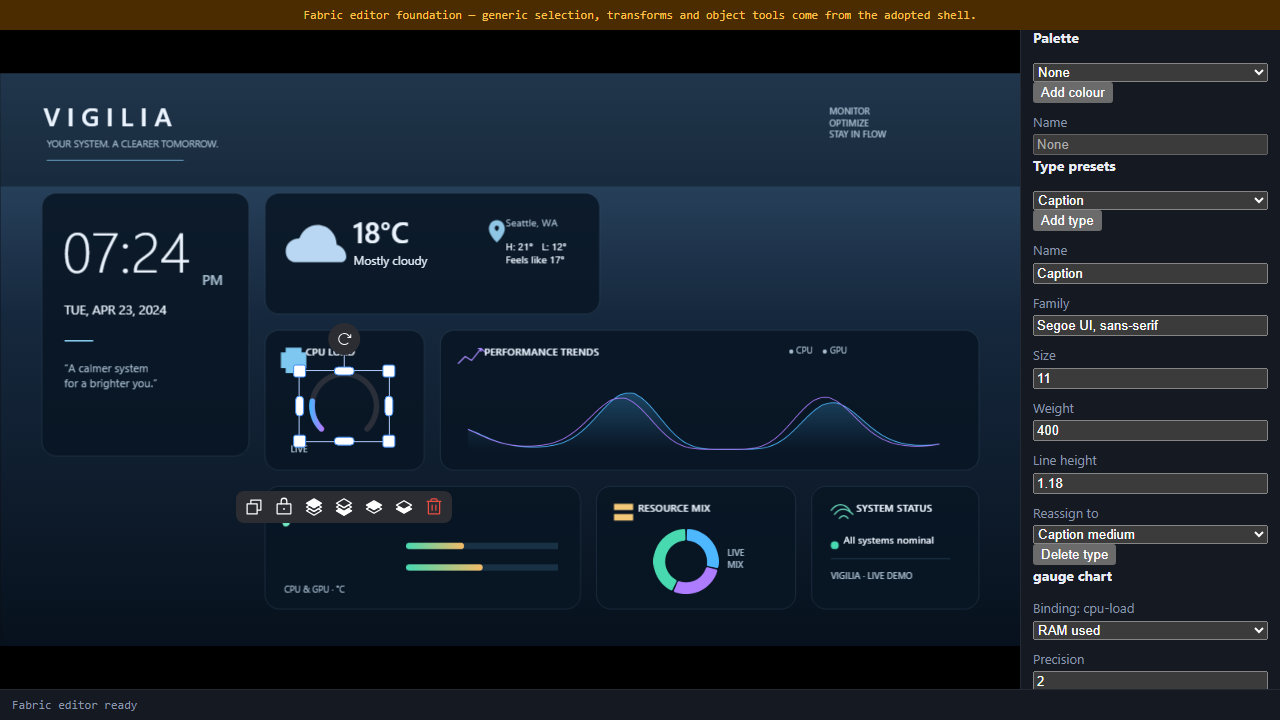
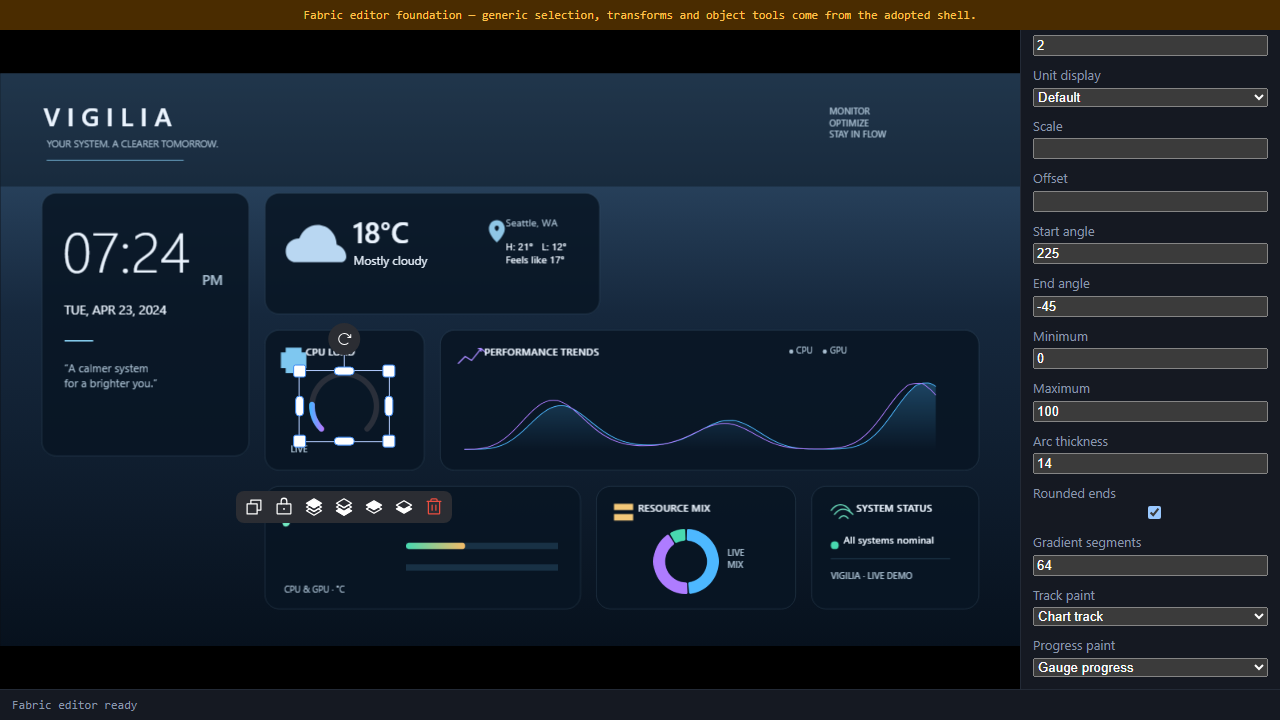
feat(editor): add chart paint controls

diff --git a/src/web/packages/editor/src/chart-manager/panel.ts b/src/web/packages/editor/src/chart-manager/panel.ts
@@ -1,8 +1,8 @@
-import { SEMANTIC_KEYS, settingsFieldsFor, type Binding, type ChartContent } from '@vigilia/renderer-core';
+import { SEMANTIC_KEYS, chartPaintFieldsFor, settingsFieldsFor, type Binding, type ChartContent, type FabricPalette } from '@vigilia/renderer-core';
 
 export interface ForkChartPanel {
   readonly root: HTMLElement;
-  render(chart: { readonly id: string; readonly content: ChartContent; readonly bindings: readonly Binding[] } | undefined): void;
+  render(chart: { readonly id: string; readonly content: ChartContent; readonly bindings: readonly Binding[] } | undefined, palette?: FabricPalette): void;
 }
 
 export function createForkChartPanel(
@@ -11,11 +11,11 @@ export function createForkChartPanel(
   onBindingChange: (id: string, binding: Binding) => void,
 ): ForkChartPanel {
   const root = document.createElement('section');
-  host.append(root);
+  host.prepend(root);
 
   return {
     root,
-    render(chart) {
+    render(chart, palette) {
       root.replaceChildren();
       if (chart === undefined) {
         root.textContent = 'Select a chart to edit its settings.';
@@ -79,8 +79,50 @@ export function createForkChartPanel(
         });
         root.append(label, input);
       }
+      for (const field of chartPaintFieldsFor(chart.content.family)) {
+        const value = (chart.content.settings as unknown as Record<string, unknown>)[field.property];
+        if (field.multiple && Array.isArray(value)) {
+          value.forEach((paint, index) => root.append(...paintPicker(
+            `${field.label} ${index + 1}`, `${field.property}.${index}`, paint, palette,
+            (ref) => onChange(chart.id, { ...chart.content.settings, [field.property]: value.map((entry, item) => item === index ? { ref } : entry) } as ChartContent['settings']),
+          )));
+        } else if (!Array.isArray(value) && value !== undefined) {
+          root.append(...paintPicker(
+            field.label, field.property, value, palette,
+            (ref) => onChange(chart.id, { ...chart.content.settings, [field.property]: { ref } } as ChartContent['settings']),
+          ));
+        }
+      }
     },
   };
+}
+
+function paintPicker(
+  labelText: string,
+  key: string,
+  value: unknown,
+  palette: FabricPalette | undefined,
+  onChange: (ref: string) => void,
+): readonly [HTMLLabelElement, HTMLSelectElement] {
+  const label = document.createElement('label');
+  label.textContent = labelText;
+  const select = document.createElement('select');
+  select.dataset['vigiliaChartPaint'] = key;
+  const current = isPaletteReference(value) ? value.ref : '';
+  for (const [id, entry] of Object.entries(palette ?? {})) {
+    const option = document.createElement('option');
+    option.value = `palette.${id}`;
+    option.textContent = entry.name;
+    select.append(option);
+  }
+  select.value = current;
+  select.disabled = current === '' || select.options.length === 0;
+  select.addEventListener('change', () => onChange(select.value));
+  return [label, select];
+}
+
+function isPaletteReference(value: unknown): value is { readonly ref: string } {
+  return typeof value === 'object' && value !== null && typeof (value as Record<string, unknown>)['ref'] === 'string';
 }
 
 function bindingNumber(

diff --git a/src/web/tests/e2e/editor-fork.spec.ts b/src/web/tests/e2e/editor-fork.spec.ts
@@ -47,6 +47,9 @@ test.describe('Fabric editor route', () => {
     await precision.fill('2');
     await precision.press('Tab');
     await expect(precision).toHaveValue('2');
+    const progressPaint = page.locator('[data-vigilia-chart-paint="progress"]');
+    await progressPaint.scrollIntoViewIfNeeded();
+    await expect(progressPaint).toBeVisible();
 
     await captureVisualReview(page, testInfo, 'editor-fork-chart-binding');
   });
@@ -156,6 +159,22 @@ test.describe('Fabric editor route', () => {
     expect(envelope.globals.palette.background).toBeUndefined();
   });
 
+  test('reassigns chart paint before deleting its palette token', async ({ page }, testInfo) => {
+    test.skip(testInfo.project.name !== 'desktop-chromium', 'the editor is a desktop surface');
+
+    await page.goto(EDITOR);
+    await page.locator('[data-vigilia-palette-token]').selectOption('chartTrack');
+    await page.locator('[data-vigilia-palette-replacement]').selectOption('bars');
+    await page.locator('[data-vigilia-palette-delete]').click();
+
+    const envelope = await saveEnvelope(page) as {
+      globals: { palette: Record<string, unknown> };
+      scene: { objects: Array<{ id?: string; settings?: { track?: { ref?: string } } }> };
+    };
+    expect(envelope.globals.palette.chartTrack).toBeUndefined();
+    expect(envelope.scene.objects.find((object) => object.id === 'load-gauge')?.settings?.track).toEqual({ ref: 'palette.bars' });
+  });
+
   test('edits a global type preset through the fork property surface', async ({ page }, testInfo) => {
     test.skip(testInfo.project.name !== 'desktop-chromium', 'the editor is a desktop surface');
 
@@ -242,6 +261,19 @@ test.describe('Fabric editor route', () => {
 
     const envelope = await saveEnvelope(page) as { bindings: Record<string, Array<{ id: string; semanticKey: string }>> };
     expect(envelope.bindings['load-gauge']).toContainEqual({ id: 'cpu-load', semanticKey: 'ram.used', precision: 2 });
+  });
+
+  test('persists selected chart paint as a palette reference', async ({ page }, testInfo) => {
+    test.skip(testInfo.project.name !== 'desktop-chromium', 'the editor is a desktop surface');
+
+    await page.goto(EDITOR);
+    await selectStarterChart(page);
+    await page.locator('[data-vigilia-chart-paint="progress"]').selectOption('palette.chartTrack');
+
+    const envelope = await saveEnvelope(page) as {
+      scene: { objects: Array<{ id?: string; settings?: { progress?: { ref?: string } } }> };
+    };
+    expect(envelope.scene.objects.find((object) => object.id === 'load-gauge')?.settings?.progress).toEqual({ ref: 'palette.chartTrack' });
   });
 
   test('opens a v2 theme and keeps the active editor when its Fabric runtime is incompatible', async ({ page }, testInfo) => {

diff --git a/src/web/packages/editor/src/chart-manager/index.dom.test.ts b/src/web/packages/editor/src/chart-manager/index.dom.test.ts
@@ -10,7 +10,7 @@ describe('ChartManager', () => {
   it('updates the selected Fabric chart from envelope bindings', () => {
     const listeners = new Map<string, () => void>();
     const chart = Object.assign(Object.create(VigiliaChart.prototype), {
-      id: 'cpu-gauge', family: 'gauge', settings: defaultGaugeSettings,
+      id: 'cpu-gauge', family: 'gauge', settings: { ...defaultGaugeSettings, track: { ref: 'palette.track' }, progress: { ref: 'palette.accent' } },
     }) as VigiliaChart;
     const canvas = {
       on: vi.fn((event: string, listener: () => void) => listeners.set(event, listener)),
@@ -24,6 +24,11 @@ describe('ChartManager', () => {
       scene,
       source: createDemoSource(0),
       bindings: { 'cpu-gauge': [{ id: 'cpu', semanticKey: 'cpu.load' }] },
+      globals: { palette: {
+        none: { name: 'None', value: { kind: 'solid', color: 'transparent' } },
+        track: { name: 'Track', value: { kind: 'solid', color: '#223344' } },
+        accent: { name: 'Accent', value: { kind: 'solid', color: '#00b8d9' } },
+      } },
       panelHost: document.body,
     });
 
@@ -41,6 +46,11 @@ describe('ChartManager', () => {
 
     expect(chart.settings).toMatchObject({ thickness: 24 });
     expect(document.querySelector<HTMLInputElement>('[data-vigilia-chart-setting="thickness"]')!.value).toBe('24');
+
+    const progress = document.querySelector<HTMLSelectElement>('[data-vigilia-chart-paint="progress"]')!;
+    progress.value = 'palette.track';
+    progress.dispatchEvent(new Event('change'));
+    expect(chart.settings).toMatchObject({ progress: { ref: 'palette.track' } });
 
     manager.destroy();
     expect(canvas.off).toHaveBeenCalledTimes(3);

diff --git a/src/web/packages/editor/src/chart-manager/index.ts b/src/web/packages/editor/src/chart-manager/index.ts
@@ -1,5 +1,6 @@
 import {
   buildChartPlan,
+  reassignChartPaintReferences,
   type Binding,
   type ChartContent,
   type FabricGlobals,
@@ -56,6 +57,26 @@ export class ChartManager {
     this.#hydrateRevivedCharts();
   }
 
+  reassignPaletteReferences(from: string, to: string): void {
+    const visit = (object: { get(key: string): unknown }): void => {
+      if (object instanceof VigiliaChart) {
+        const settings = reassignChartPaintReferences(object.settings, from, to);
+        if (settings !== object.settings) {
+          object.set('settings', settings);
+          const id = object.get('id');
+          if (typeof id === 'string') this.#applyChart(id, object);
+        }
+      }
+      const children = object.get('objects');
+      if (Array.isArray(children)) children.forEach((child) => {
+        if (typeof child === 'object' && child !== null && 'get' in child && typeof child.get === 'function') visit(child as { get(key: string): unknown });
+      });
+    };
+    this.#editor.canvas.getObjects().forEach(visit);
+    this.#editor.canvas.requestRenderAll();
+    this.#drawPanel();
+  }
+
   readonly #drawPanel = (): void => {
     const chart = this.#selectedChart();
     const id = chart?.get('id');
@@ -65,7 +86,7 @@ export class ChartManager {
         id,
         content: { family: chart.family, settings: chart.settings } as ChartContent,
         bindings: this.#bindings[id] ?? [],
-      });
+      }, this.#globals?.palette);
   };
 
   #updateSettings(id: string, settings: ChartContent['settings']): void {

diff --git a/src/web/packages/renderer-core/src/charts/settings-fields.ts b/src/web/packages/renderer-core/src/charts/settings-fields.ts
@@ -55,6 +55,14 @@ export interface SettingsFieldDescriptor {
   readonly hint?: string;
 }
 
+/** Persisted chart paint settings; token choice is shared across editor surfaces. */
+export interface ChartPaintFieldDescriptor {
+  readonly property: string;
+  readonly label: string;
+  /** A palette assigns one token to each existing series slot. */
+  readonly multiple?: true;
+}
+
 const INTERPOLATION = [
   { value: 'linear', label: 'Linear' },
   { value: 'smooth', label: 'Smooth' },
@@ -167,6 +175,17 @@ export const CHART_SETTINGS_FIELDS: Readonly<
 /** The editable scalar settings for one family. */
 export function settingsFieldsFor(family: ChartFamily): readonly SettingsFieldDescriptor[] {
   return CHART_SETTINGS_FIELDS[family];
+}
+
+export const CHART_PAINT_FIELDS: Readonly<Record<ChartFamily, readonly ChartPaintFieldDescriptor[]>> = {
+  gauge: [{ property: 'track', label: 'Track paint' }, { property: 'progress', label: 'Progress paint' }],
+  line: [{ property: 'stroke', label: 'Stroke paint' }, { property: 'palette', label: 'Series paint', multiple: true }, { property: 'area', label: 'Area paint' }],
+  bar: [{ property: 'fill', label: 'Fill paint' }, { property: 'track', label: 'Track paint' }],
+  pie: [{ property: 'remainderFill', label: 'Remainder paint' }, { property: 'palette', label: 'Slice paint', multiple: true }],
+};
+
+export function chartPaintFieldsFor(family: ChartFamily): readonly ChartPaintFieldDescriptor[] {
+  return CHART_PAINT_FIELDS[family];
 }
 
 /**

diff --git a/src/web/packages/renderer-core/src/charts/chart-paint.test.ts b/src/web/packages/renderer-core/src/charts/chart-paint.test.ts
@@ -1,5 +1,5 @@
 import { describe, expect, it } from 'vitest';
-import { resolveChartPaint } from './chart-paint.js';
+import { reassignChartPaintReferences, resolveChartPaint } from './chart-paint.js';
 
 const palette = {
   none: { name: 'None', value: { kind: 'solid' as const, color: 'transparent' } },
@@ -17,6 +17,17 @@ describe('chart paint', () => {
   it('resolves threshold bands through solid palette tokens', () => {
     expect(resolveChartPaint({ kind: 'thresholds', bands: [{ offset: 0.5, ref: 'palette.accent' }] }, palette)).toEqual({
       kind: 'thresholds', bands: [{ offset: 0.5, color: '#00b8d9' }],
+    });
+  });
+
+  it('reassigns token references in chart settings before a palette deletion', () => {
+    const settings = {
+      track: { ref: 'palette.old' },
+      progress: { kind: 'thresholds' as const, bands: [{ offset: 1, ref: 'palette.old' }] },
+    };
+    expect(reassignChartPaintReferences(settings, 'palette.old', 'palette.new')).toEqual({
+      track: { ref: 'palette.new' },
+      progress: { kind: 'thresholds', bands: [{ offset: 1, ref: 'palette.new' }] },
     });
   });
 });

diff --git a/src/web/packages/renderer-core/src/charts/settings-fields.test.ts b/src/web/packages/renderer-core/src/charts/settings-fields.test.ts
@@ -7,6 +7,8 @@ import { defaultBarSettings } from './bar.js';
 import { defaultPieSettings } from './pie.js';
 import {
   CHART_SETTINGS_FIELDS,
+  CHART_PAINT_FIELDS,
+  chartPaintFieldsFor,
   NON_SCALAR_SETTINGS,
   settingsFieldsFor,
   settingsKeyFor,
@@ -51,6 +53,18 @@ describe('the chart settings declaration', () => {
       for (const field of settingsFieldsFor(family)) {
         expect('default' in field).toBe(false);
       }
+    }
+  });
+});
+
+describe('the chart paint declaration', () => {
+  it('has a labelled row for every persisted paint setting', () => {
+    expect(Object.keys(CHART_PAINT_FIELDS).sort()).toEqual([...CHART_FAMILIES].sort());
+    for (const family of CHART_FAMILIES) {
+      const properties = chartPaintFieldsFor(family).map((field) => field.property);
+      expect(new Set(properties).size).toBe(properties.length);
+      expect(properties).toEqual(NON_SCALAR_SETTINGS[family].filter((property) => property !== 'animation' && property !== 'total'));
+      expect(chartPaintFieldsFor(family).every((field) => field.label.length > 0)).toBe(true);
     }
   });
 });

diff --git a/src/web/packages/renderer-core/src/charts/chart-paint.ts b/src/web/packages/renderer-core/src/charts/chart-paint.ts
@@ -17,6 +17,19 @@ export function resolveChartPaint(paint: ChartPaint, palette: FabricPalette | un
   };
 }
 
+/** Reassign token references without touching engine-only resolved fills. */
+export function reassignChartPaintReferences<T>(value: T, from: string, to: string): T {
+  if (Array.isArray(value)) {
+    const next = value.map((entry) => reassignChartPaintReferences(entry, from, to));
+    return next.some((entry, index) => entry !== value[index]) ? next as T : value;
+  }
+  if (typeof value !== 'object' || value === null) return value;
+  const record = value as Record<string, unknown>;
+  if (record['ref'] === from) return { ...record, ref: to } as T;
+  const entries = Object.entries(record).map(([key, entry]) => [key, reassignChartPaintReferences(entry, from, to)] as const);
+  return entries.some(([key, entry]) => entry !== record[key]) ? Object.fromEntries(entries) as T : value;
+}
+
 function paletteFill(ref: string, palette: FabricPalette | undefined): Fill {
   const value = token(ref, palette)?.value;
   if (value?.kind === 'solid') return { kind: 'solid', color: value.color };

diff --git a/src/web/packages/renderer-core/src/index.ts b/src/web/packages/renderer-core/src/index.ts
@@ -35,7 +35,7 @@ export type {
   LinearGradientColor,
 } from './charts/fill.js';
 
-export { resolveChartPaint } from './charts/chart-paint.js';
+export { reassignChartPaintReferences, resolveChartPaint } from './charts/chart-paint.js';
 
 export {
   colorAt,
@@ -95,10 +95,12 @@ export type {
 
 export { buildPieOption, computeComposition, defaultPieSettings } from './charts/pie.js';
 
-export type { SettingsFieldDescriptor, SettingsFieldKind } from './charts/settings-fields.js';
+export type { ChartPaintFieldDescriptor, SettingsFieldDescriptor, SettingsFieldKind } from './charts/settings-fields.js';
 
 export {
   CHART_SETTINGS_FIELDS,
+  CHART_PAINT_FIELDS,
+  chartPaintFieldsFor,
   NON_SCALAR_SETTINGS,
   settingsFieldsFor,
   settingsKeyFor,

diff --git a/src/web/packages/editor/src/fork-extensions/index.ts b/src/web/packages/editor/src/fork-extensions/index.ts
@@ -139,6 +139,7 @@ export class ForkExtensions {
     const from = `palette.${id}` as const;
     const to = `palette.${replacement}` as const;
     reassignObjectPaletteReferences(shell.editor.canvas, from, to);
+    this.charts.reassignPaletteReferences(from, to);
     const artboard = { ...this.#envelope.artboard };
     for (const property of ['background', 'barColor'] as const) {
       const value = artboard[property];

diff --git a/.agents/status.md b/.agents/status.md
@@ -8,10 +8,11 @@ Current handoff only. Durable rules: `AGENTS.md`; product plan:
 
 | Check | Result |
 |---|---|
-| Unit tests | 855 passed across 55 files |
+| Unit tests | 857 passed across 55 files |
 | Typechecks | six projects clean |
 | Builds | player, editor and host clean |
-| Visual review | focused active-fork capture inspected; palette-referenced charts render |
+| Player size gate | 263.0 KB gzip JS; 0.0 KB gzip CSS |
+| Visual review | inspected active-fork chart-paint capture; selected gauge and token selectors remain visible |
 
 The current chart-paint slice has current typecheck, unit, editor build and
 focused active-fork visual evidence.
@@ -153,5 +154,7 @@ focused active-fork visual evidence.
 - LHM extended telemetry is still a contract, not an implementation.
 - Canvas text uses natural digit metrics where tabular numerals cannot be
   guaranteed.
+- Current-session Playwright capture/browser gates could not launch because the
+  runtime returned `spawn EPERM` before a browser process started.
 - Two chart engine gaps remain open: gauge angular gradients and discrete line
   threshold bands.
